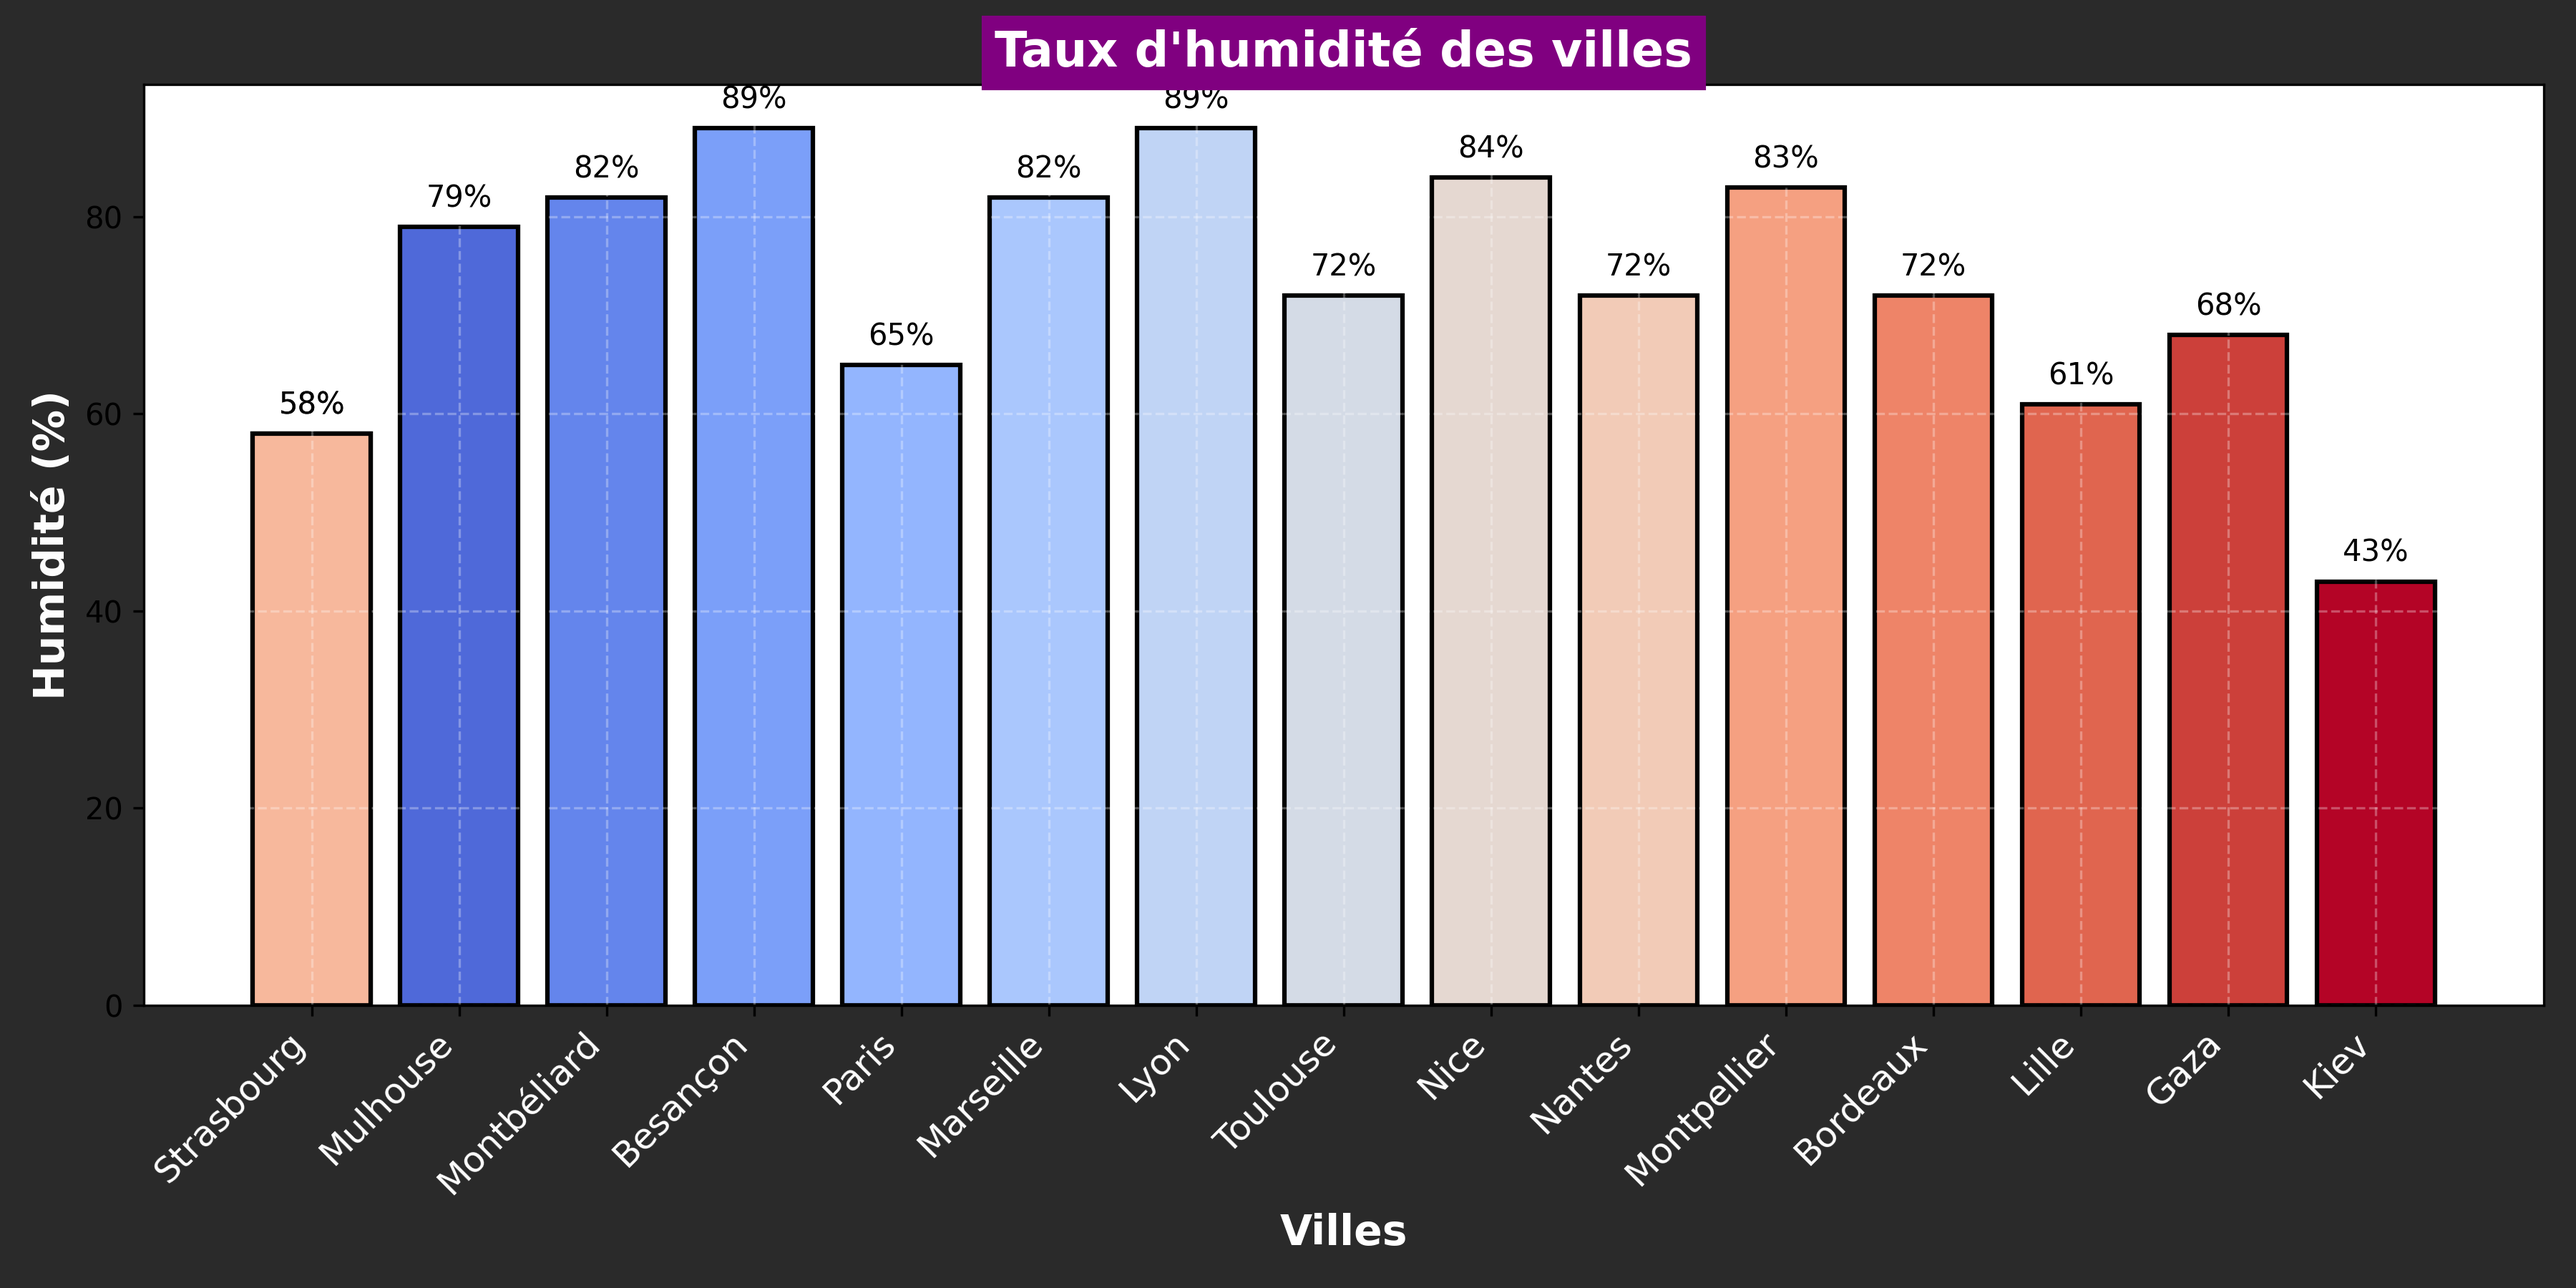
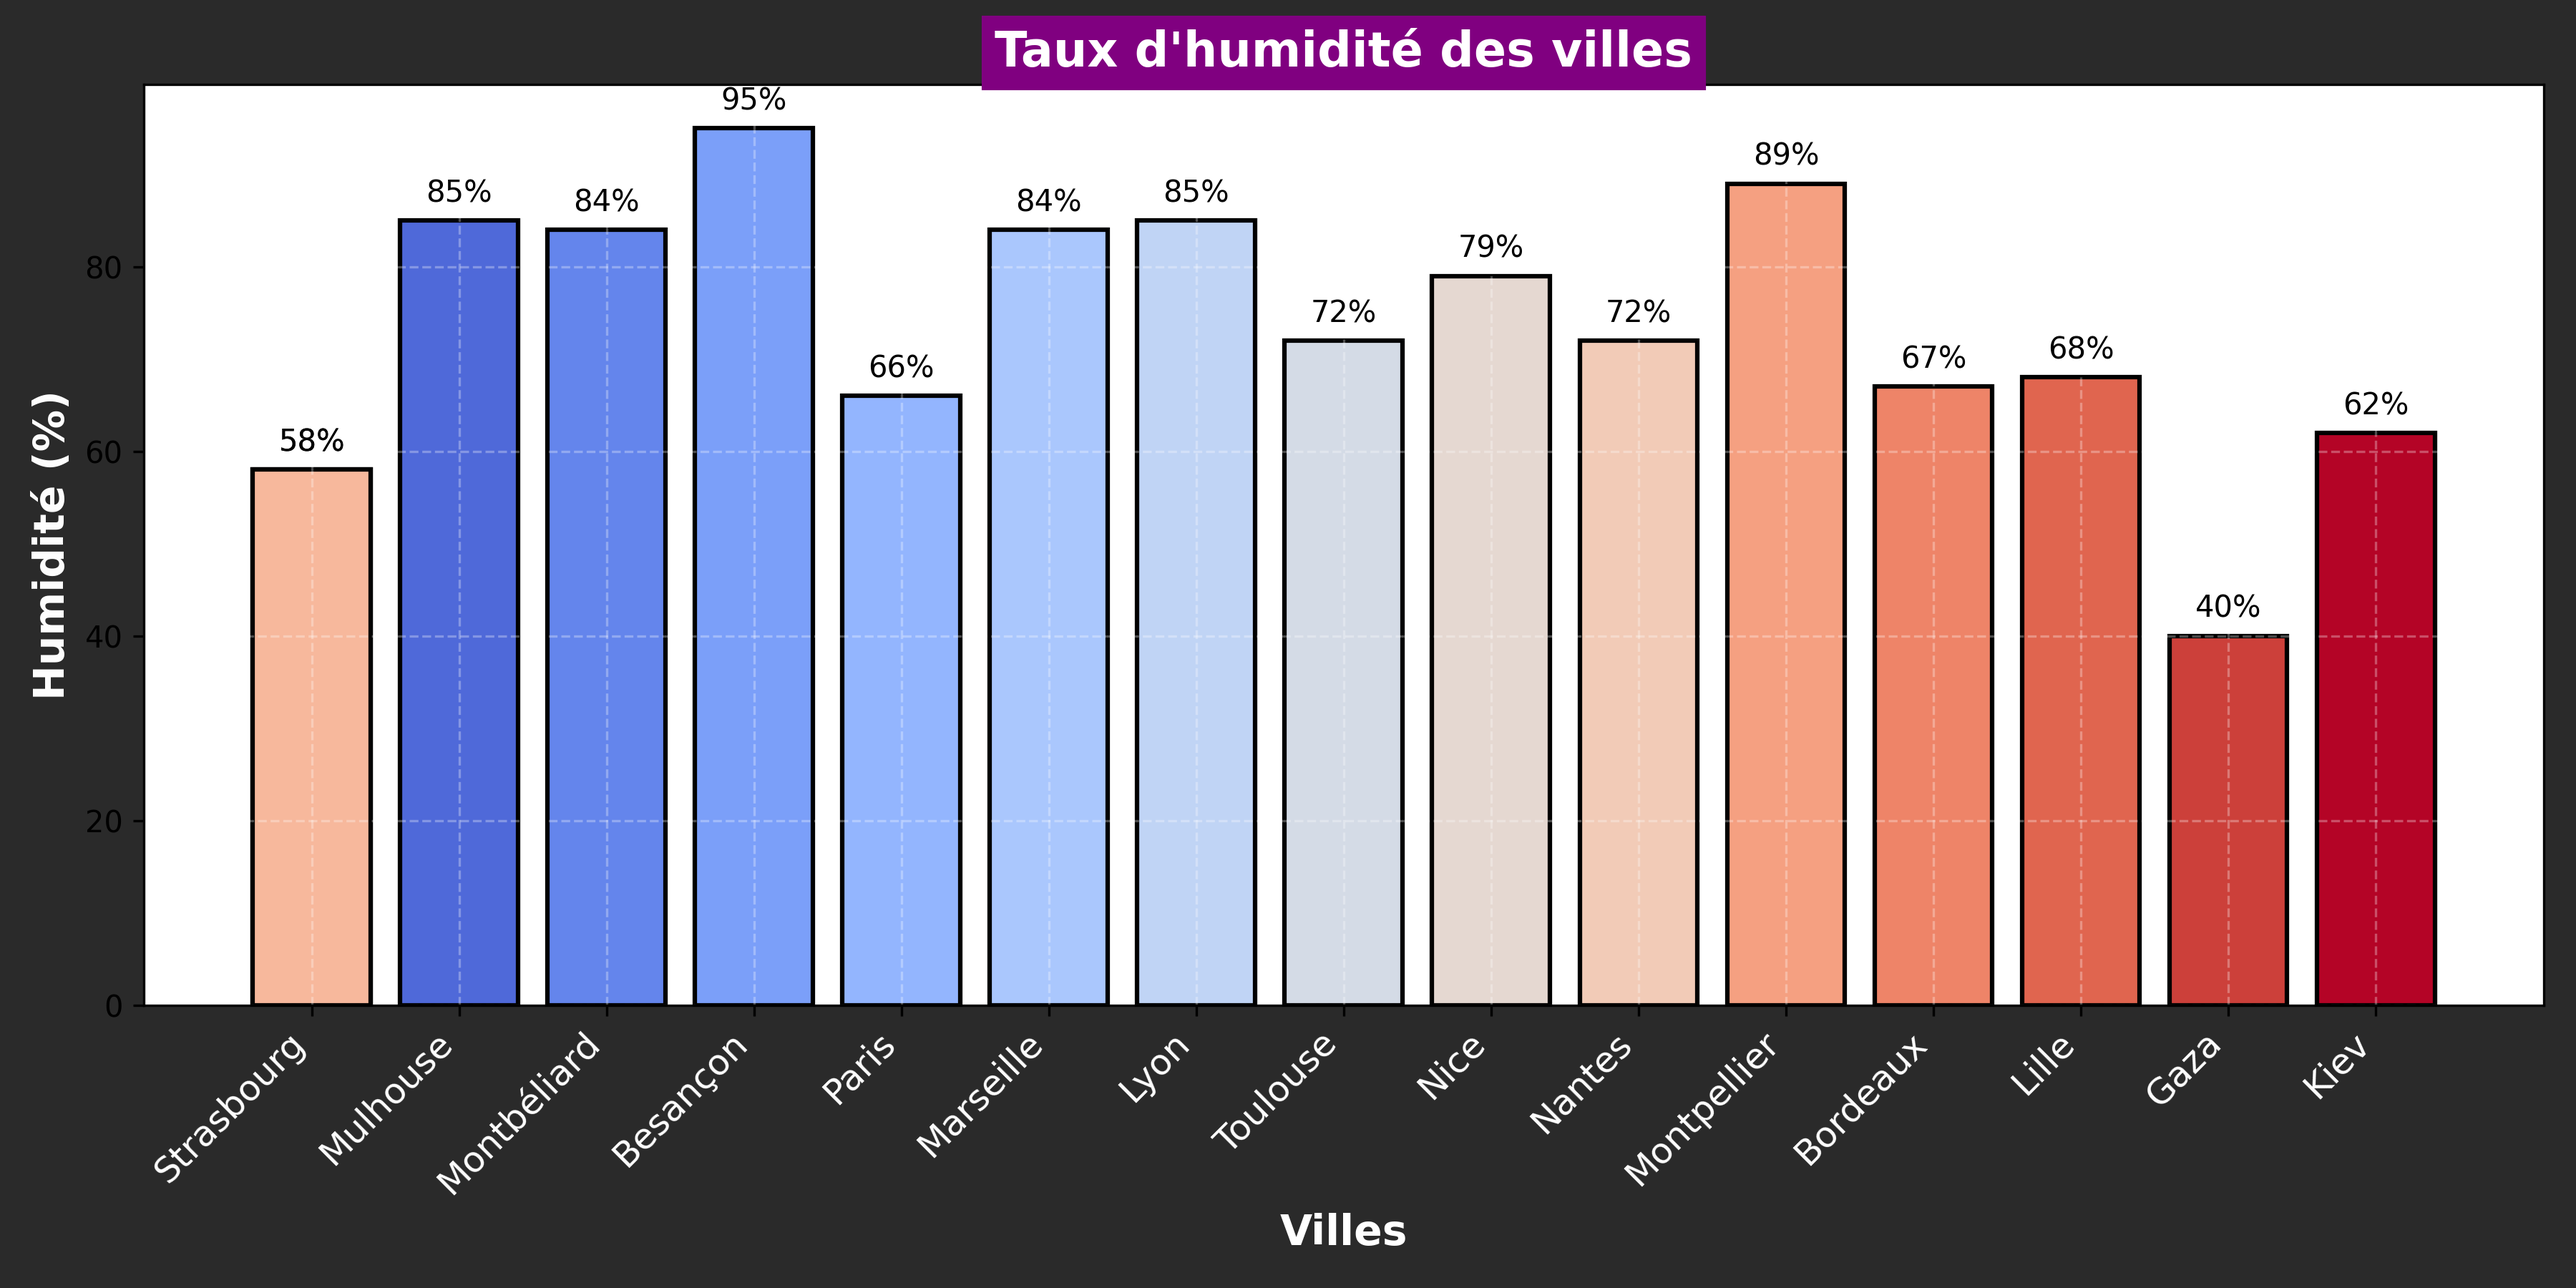
Mise à jour de la météo et ajout du graphique d'humidité

diff --git a/README.md b/README.md
@@ -24,103 +24,103 @@ Ce repo contient plusieurs workflows GitHub Actions :
 ## Météo actuelle :
 ## Météo des grandes villes + Gaza et Kiev 🌍
 
-🕒 Mise à jour : 29/04/2025 08:17:50
+🕒 Mise à jour : 30/04/2025 08:17:33
 
 ### 🌍 Strasbourg ☀
 **Conditions :** ciel dégagé
-**Température :** 13.94°C
+**Température :** 14.95°C
 **Humidité :** 58%
 **Vent :** 2.06 m/s
 
 ### 🌍 Mulhouse ☀
 **Conditions :** ciel dégagé
-**Température :** 10.85°C
-**Humidité :** 79%
-**Vent :** 0 m/s
+**Température :** 11.85°C
+**Humidité :** 85%
+**Vent :** 1.54 m/s
 
-### 🌍 Montbéliard 🌥
-**Conditions :** partiellement nuageux
-**Température :** 14.99°C
-**Humidité :** 82%
-**Vent :** 2.57 m/s
+### 🌍 Montbéliard ☀
+**Conditions :** ciel dégagé
+**Température :** 12.46°C
+**Humidité :** 84%
+**Vent :** 1.96 m/s
 
-### 🌍 Besançon 🌥
-**Conditions :** nuageux
-**Température :** 12.17°C
-**Humidité :** 89%
-**Vent :** 0.23 m/s
+### 🌍 Besançon ☀
+**Conditions :** ciel dégagé
+**Température :** 10.18°C
+**Humidité :** 95%
+**Vent :** 0.6 m/s
 
 ### 🌍 Paris ☀
 **Conditions :** ciel dégagé
-**Température :** 14.35°C
-**Humidité :** 65%
-**Vent :** 3.09 m/s
+**Température :** 15.47°C
+**Humidité :** 66%
+**Vent :** 2.06 m/s
 
 ### 🌍 Marseille ☀
 **Conditions :** ciel dégagé
-**Température :** 13.62°C
-**Humidité :** 82%
-**Vent :** 2.26 m/s
+**Température :** 11.95°C
+**Humidité :** 84%
+**Vent :** 1.48 m/s
 
-### 🌍 Lyon 🌥
-**Conditions :** nuageux
-**Température :** 10.53°C
-**Humidité :** 89%
-**Vent :** 0.5 m/s
+### 🌍 Lyon ☀
+**Conditions :** ciel dégagé
+**Température :** 11.32°C
+**Humidité :** 85%
+**Vent :** 0.73 m/s
 
 ### 🌍 Toulouse ☀
 **Conditions :** ciel dégagé
 **Température :** 14.99°C
 **Humidité :** 72%
-**Vent :** 3.6 m/s
+**Vent :** 5.14 m/s
 
 ### 🌍 Nice ☀
 **Conditions :** ciel dégagé
-**Température :** 11.39°C
-**Humidité :** 84%
-**Vent :** 2.39 m/s
+**Température :** 5.47°C
+**Humidité :** 79%
+**Vent :** 2.42 m/s
 
 ### 🌍 Nantes ☀
 **Conditions :** ciel dégagé
-**Température :** 13.96°C
+**Température :** 15.96°C
 **Humidité :** 72%
 **Vent :** 3.09 m/s
 
 ### 🌍 Strasbourg ☀
 **Conditions :** ciel dégagé
-**Température :** 13.94°C
+**Température :** 14.95°C
 **Humidité :** 58%
 **Vent :** 2.06 m/s
 
 ### 🌍 Montpellier ☀
 **Conditions :** ciel dégagé
-**Température :** 14.72°C
-**Humidité :** 83%
+**Température :** 13.61°C
+**Humidité :** 89%
 **Vent :** 3.09 m/s
 
 ### 🌍 Bordeaux ☀
 **Conditions :** ciel dégagé
 **Température :** 15.15°C
-**Humidité :** 72%
-**Vent :** 4.63 m/s
+**Humidité :** 67%
+**Vent :** 4.12 m/s
 
-### 🌍 Lille ☀
-**Conditions :** ciel dégagé
-**Température :** 12.89°C
-**Humidité :** 61%
-**Vent :** 1.03 m/s
-
-### 🌍 Gaza ☀
-**Conditions :** ciel dégagé
-**Température :** 20.61°C
+### 🌍 Lille 🌥
+**Conditions :** partiellement nuageux
+**Température :** 13.31°C
 **Humidité :** 68%
-**Vent :** 1.57 m/s
+**Vent :** 1.54 m/s
+
+### 🌍 Gaza 🌥
+**Conditions :** nuageux
+**Température :** 27.26°C
+**Humidité :** 40%
+**Vent :** 5.83 m/s
 
 ### 🌍 Kiev 🌥
 **Conditions :** nuageux
-**Température :** 14.85°C
-**Humidité :** 43%
-**Vent :** 4.43 m/s
+**Température :** 14.05°C
+**Humidité :** 62%
+**Vent :** 3.3 m/s
 
 <p align='center'><img src='https://raw.githubusercontent.com/khoa083/khoa/main/Khoa_ne/img/Rainbow.gif' width='100%' style='border-radius: 5px; border: 3px solid #39FF14; box-shadow: 0 0 10px #39FF14, 0 0 20px #39FF14;' /></p>
 
